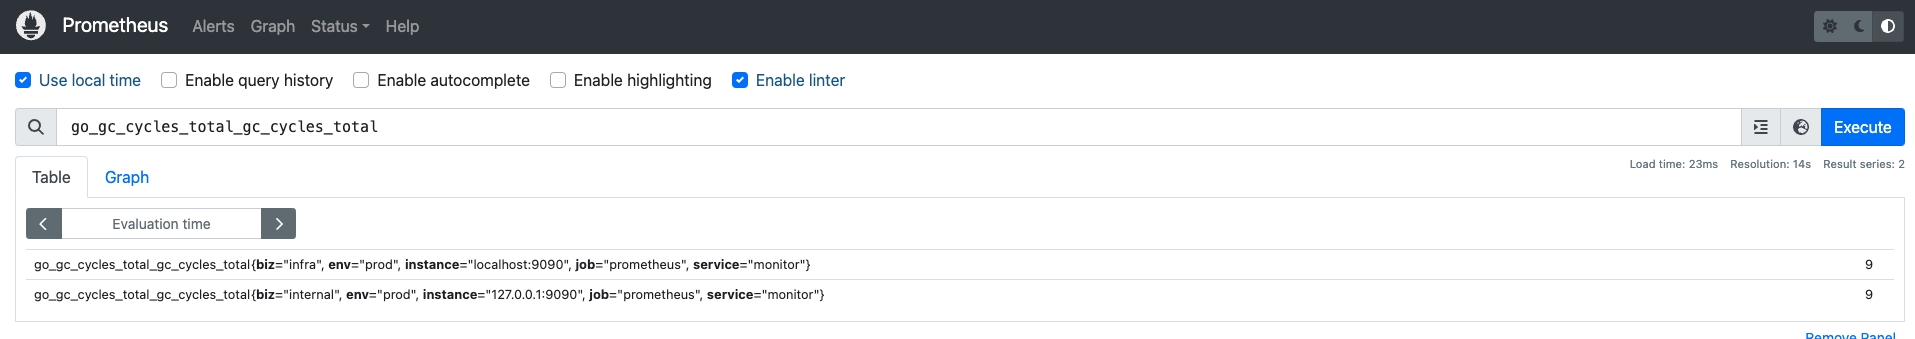
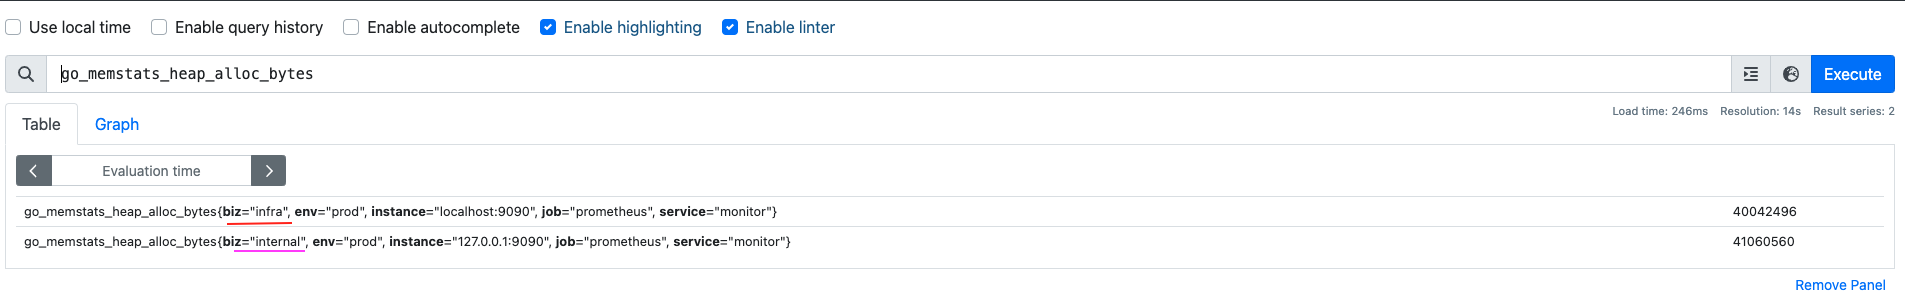
格式

Changed region(s): [[0.0, 0.0, 1.0, 0.903], [0.031, 0.9331, 0.9911, 1.0], [0.8982, 0.6923, 0.9601, 0.7224]]

diff --git a/prometheus/Label和Relabeling.md b/prometheus/Label和Relabeling.md
@@ -5,14 +5,20 @@
 ### 内置标签/Meta标签
 
 一般情况，`prometheus`以 "`__`"作为前缀的标签的是系统内置标签,定义了`Prometheus`的`Target`实例和指标的一些基本信息。
-内置标签[定义在common项目里](https://github.com/prometheus/common/blob/main/model/labels.go#L42)，常见内部标签如下：
+常见内部标签如下：
 
 - `__address__`   当前`Target`实例的访问地址<`host`>:<`port`>，只供`Prometheus`使用，不会写入时序数据库中，也无法使用`promql`查询。
 - `__scheme__`    采集`Target`指标的协议，`HTTP`或者`HTTPS` 默认是`HTTP`，只供`Prometheus`使用，不会写入时序数据库中，也无法使用`promql`查询。
 - `__metrics_path__`  `Target`对外暴露的采集接口，默认`/metrics`，只供`Prometheus`使用，不会写入时序数据库中，也无法使用`promql`查询。
-- `__name__`      `metrics`的名称，指标名会以 `__name__=<metric_name>`的形式，存储在时序数据库中，例如`__name__=prometheus_http_requests_total`
+- `__name__`      `metrics`的名称，指标名会以 `__name__= <metric_name>`的形式，存储在时序数据库中，例如`__name__ = prometheus_http_requests_total`
 - `job`   指标归属哪个 `job`
 - `instance`   采集的实例，默认情况与`__address__`相同
+
+
+
+> [!NOTE]
+>
+> 内置标签没有定义在`prometheus`项目，定义在`prometheus` 的公共依赖项目 [common](https://github.com/prometheus/common/blob/main/model/labels.go#L42)
 
 
 
@@ -23,7 +29,8 @@
 #### 案例1:基本使用
 
 要求： 针对当前`prometheus`得监控，为其指标标注归属部门`infra`、服务类型`monitor`、运行环境`prod`等  
-<br> 
+
+
 配置如下： 
 
 ```yaml
@@ -42,18 +49,18 @@ scrape_configs:
 ```
 
 展示效果：  
-<br>
+
 首先，我们先看一下`target`上有哪些`label`,访问[http://127.0.0.1:9090/targets?search=](http://127.0.0.1:9090/targets?search=)  如图：  
 
 ![prometheus_label_demo_1_target](./src/prometheus_label_demo_1_target.png)
 
 <br>
 
-我们再看一下指标，**可任选指标**，本次选取`go_gc_cycles_total_gc_cycles_total`展示  
+我们再看一下指标，**可任选指标**，本次选取`go_memstats_heap_alloc_bytes`展示  
 
-![prometheus_label_demo_1](./src/prometheus_label_demo_1.png)
+![prometheus_label_demo_1](./src/prometheus_label_demo_1.png) 可见所有指标都被打上这些`env: prod`、`service: monitor`、`biz: infra`标签  
 
-可见所有指标都被打上这些`env: prod`、`service: monitor`、`biz: infra`标签  
+
 
 
 #### 案例2: 作用范围是target，而不是job
@@ -87,8 +94,10 @@ scrape_configs:
 首先，我们先看一下`target`上有哪些`label`,访问[http://127.0.0.1:9090/targets?search=](http://127.0.0.1:9090/targets?search=), 如图:  
 
 ![prometheus_label_demo_2_target](./src/prometheus_label_demo_2_target.png)
-<br>
-我们再看一下指标，**可任选指标**，本次选取`go_gc_cycles_total_gc_cycles_total`展示 , 如图:  
+
+
+
+我们再看一下指标，**可任选指标**，本次选取`go_memstats_heap_alloc_bytes`展示 , 如图:  
 ![prometheus_label_demo_2](./src/prometheus_label_demo_2.png)
 
 
@@ -100,7 +109,7 @@ scrape_configs:
 
 ### 基本使用
 
-`Relabeling` 需要配置在prometheus的配置文件中(*例如：`prometheus.yaml`*)。与服务发现配置为同一层级的`relabel_configs`模块下进行配置。
+`Relabeling` 需要配置在`prometheus`的配置文件中(*例如：`prometheus.yaml`*)。与服务发现配置为同一层级的`relabel_configs`模块下进行配置。
 配置的关键字：
 
 - `source_labels` 源标签，没有经过`relabel`处理之前的标签名字。
@@ -120,6 +129,7 @@ scrape_configs:
 |labelkeep|使用`regex`表达式匹配标签，仅收集符合规则的`target`，不符合匹配规则的不收集|
 |labeldrop	|使用`regex`表达式匹配标签，符合规则的标签将从`target`实例中移除|
 |labelmap	 | 根据`regex`的定义去匹配`Target`实例所有标签的名称，并且以匹配到的内容为新的标签名称，其值作为新标签的值|
+
 
 
 #### Relabeling - replace 标签替换

diff --git a/prometheus/README.md b/prometheus/README.md
@@ -41,7 +41,7 @@ github：[https://github.com/tylitianrui/readcode](https://github.com/tylitianru
   - [服务发现简述与基本配置](discovery简述.md)
   - [prometheus服务发现的核心逻辑](discovery_core_logic.md)
   - [prometheus服务发现的实现](discovery_core_implementation.md)
-  - [Debug:prometheus监控外部kubernetes集群配置](discovery_k8s_config.md)
+  - [Debug:prometheus监控外部kubernetes集群配置](discovery_k8s_config_debug.md)
   - [kubernetes协议的服务发现](discovery_k8s_implementation.md)
   - [kubernetes部署prometheus](prometheus_k8s_deploy.md)
   - [新版本DiscoveryManager](discovery_新版本DiscoveryManager.md)

diff --git a/prometheus/discovery_k8s_config_debug.md b/prometheus/discovery_k8s_config_debug.md
@@ -1,4 +1,4 @@
-# prometheus监控kubernetes配置
+# DEBUG:prometheus监控kubernetes配置
 
 静态配置不再赘述，可见[prometheus简述:静态文件配置](./prometheus简述.md#静态文件配置)
 
